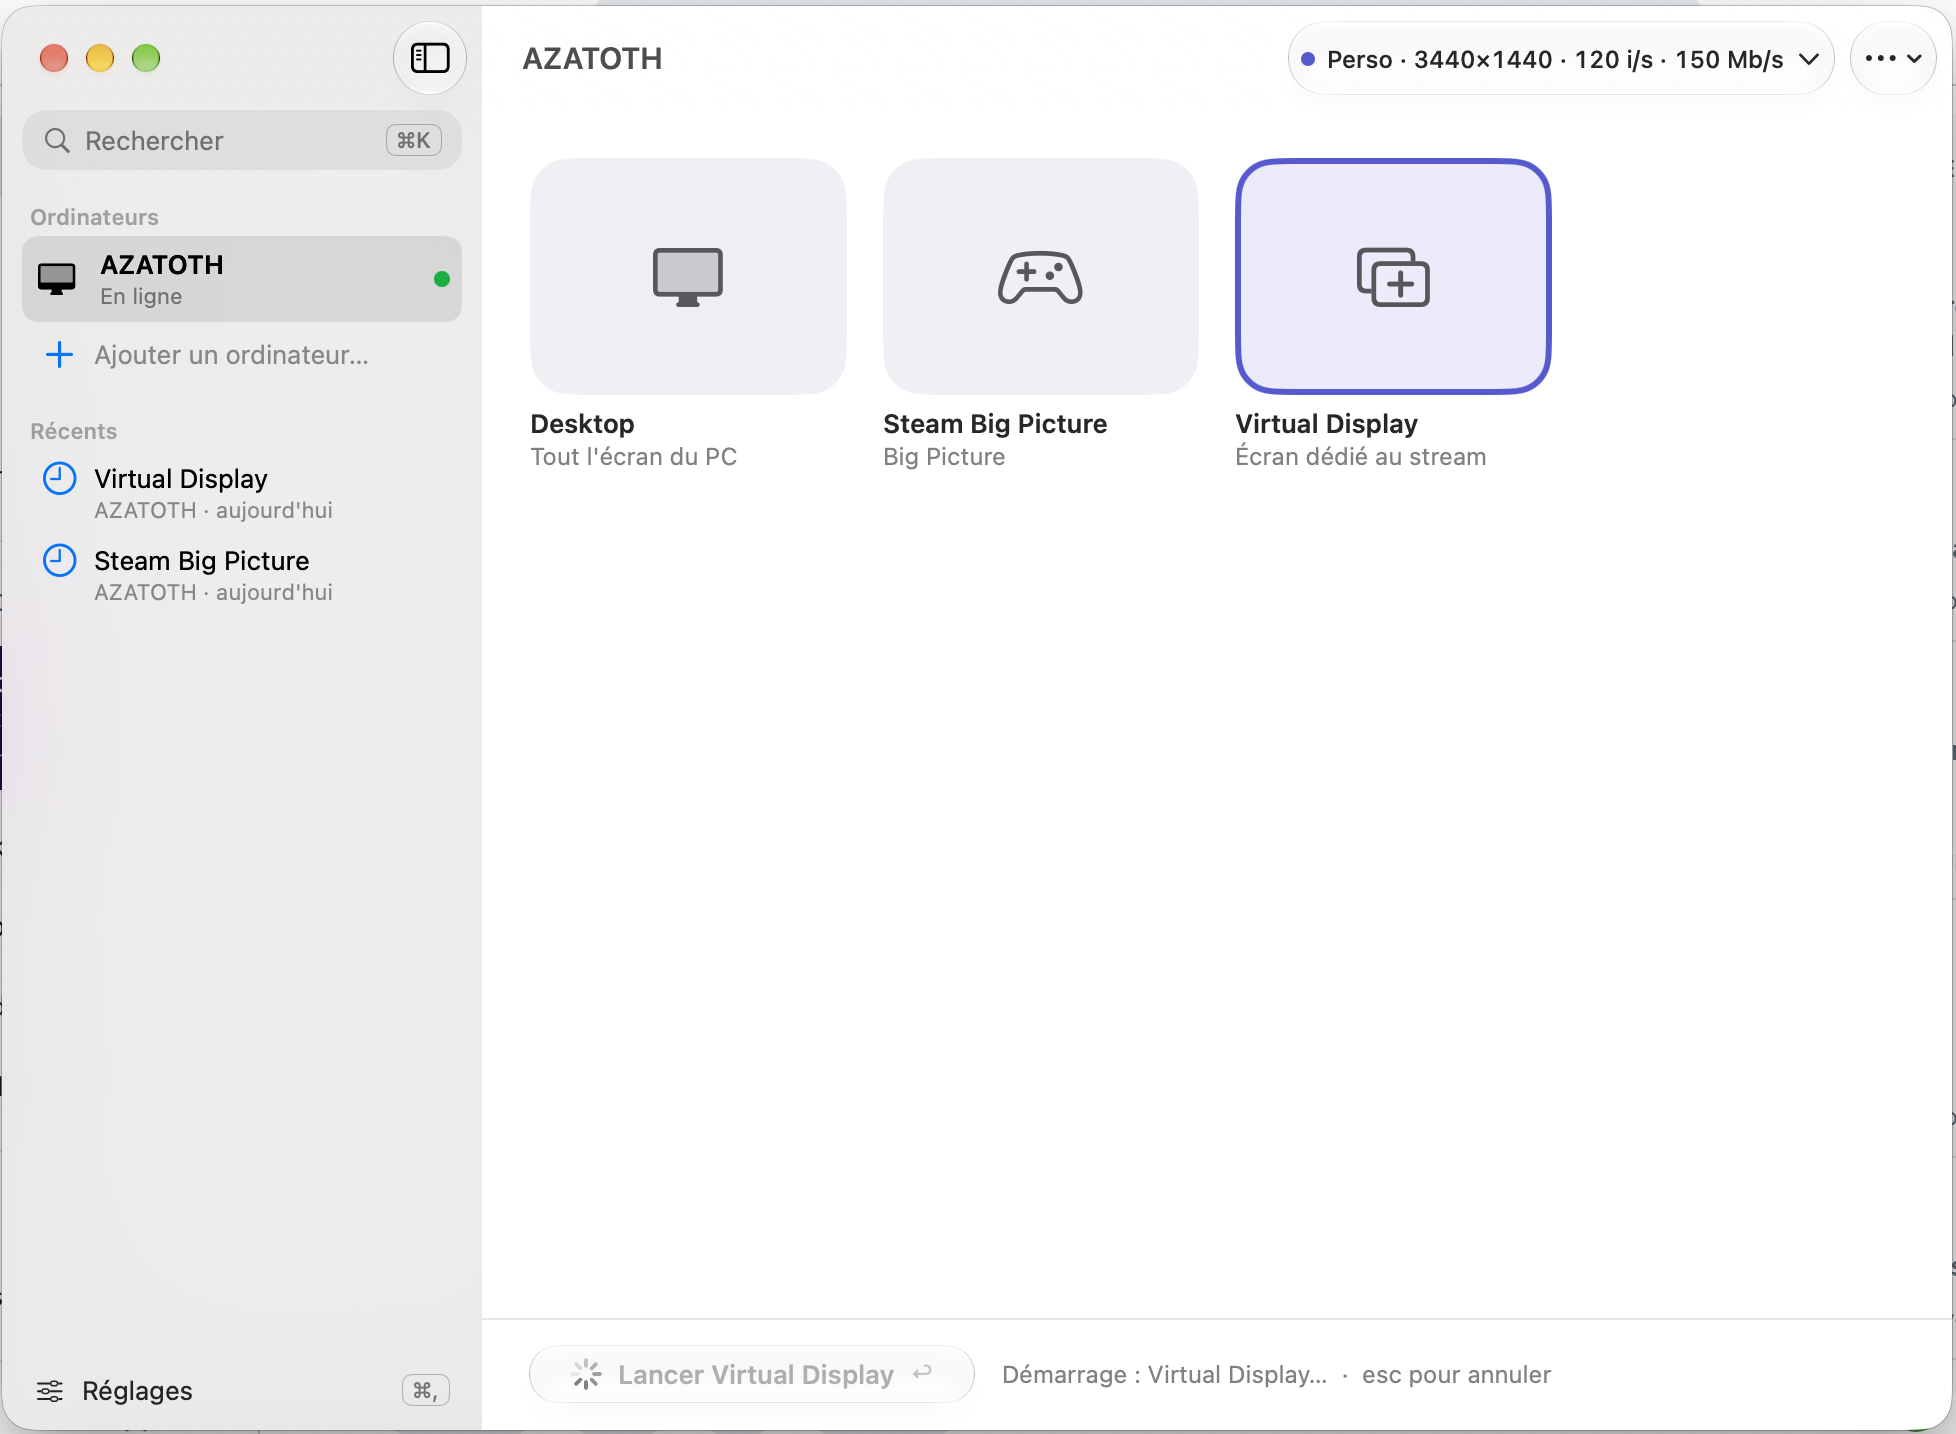
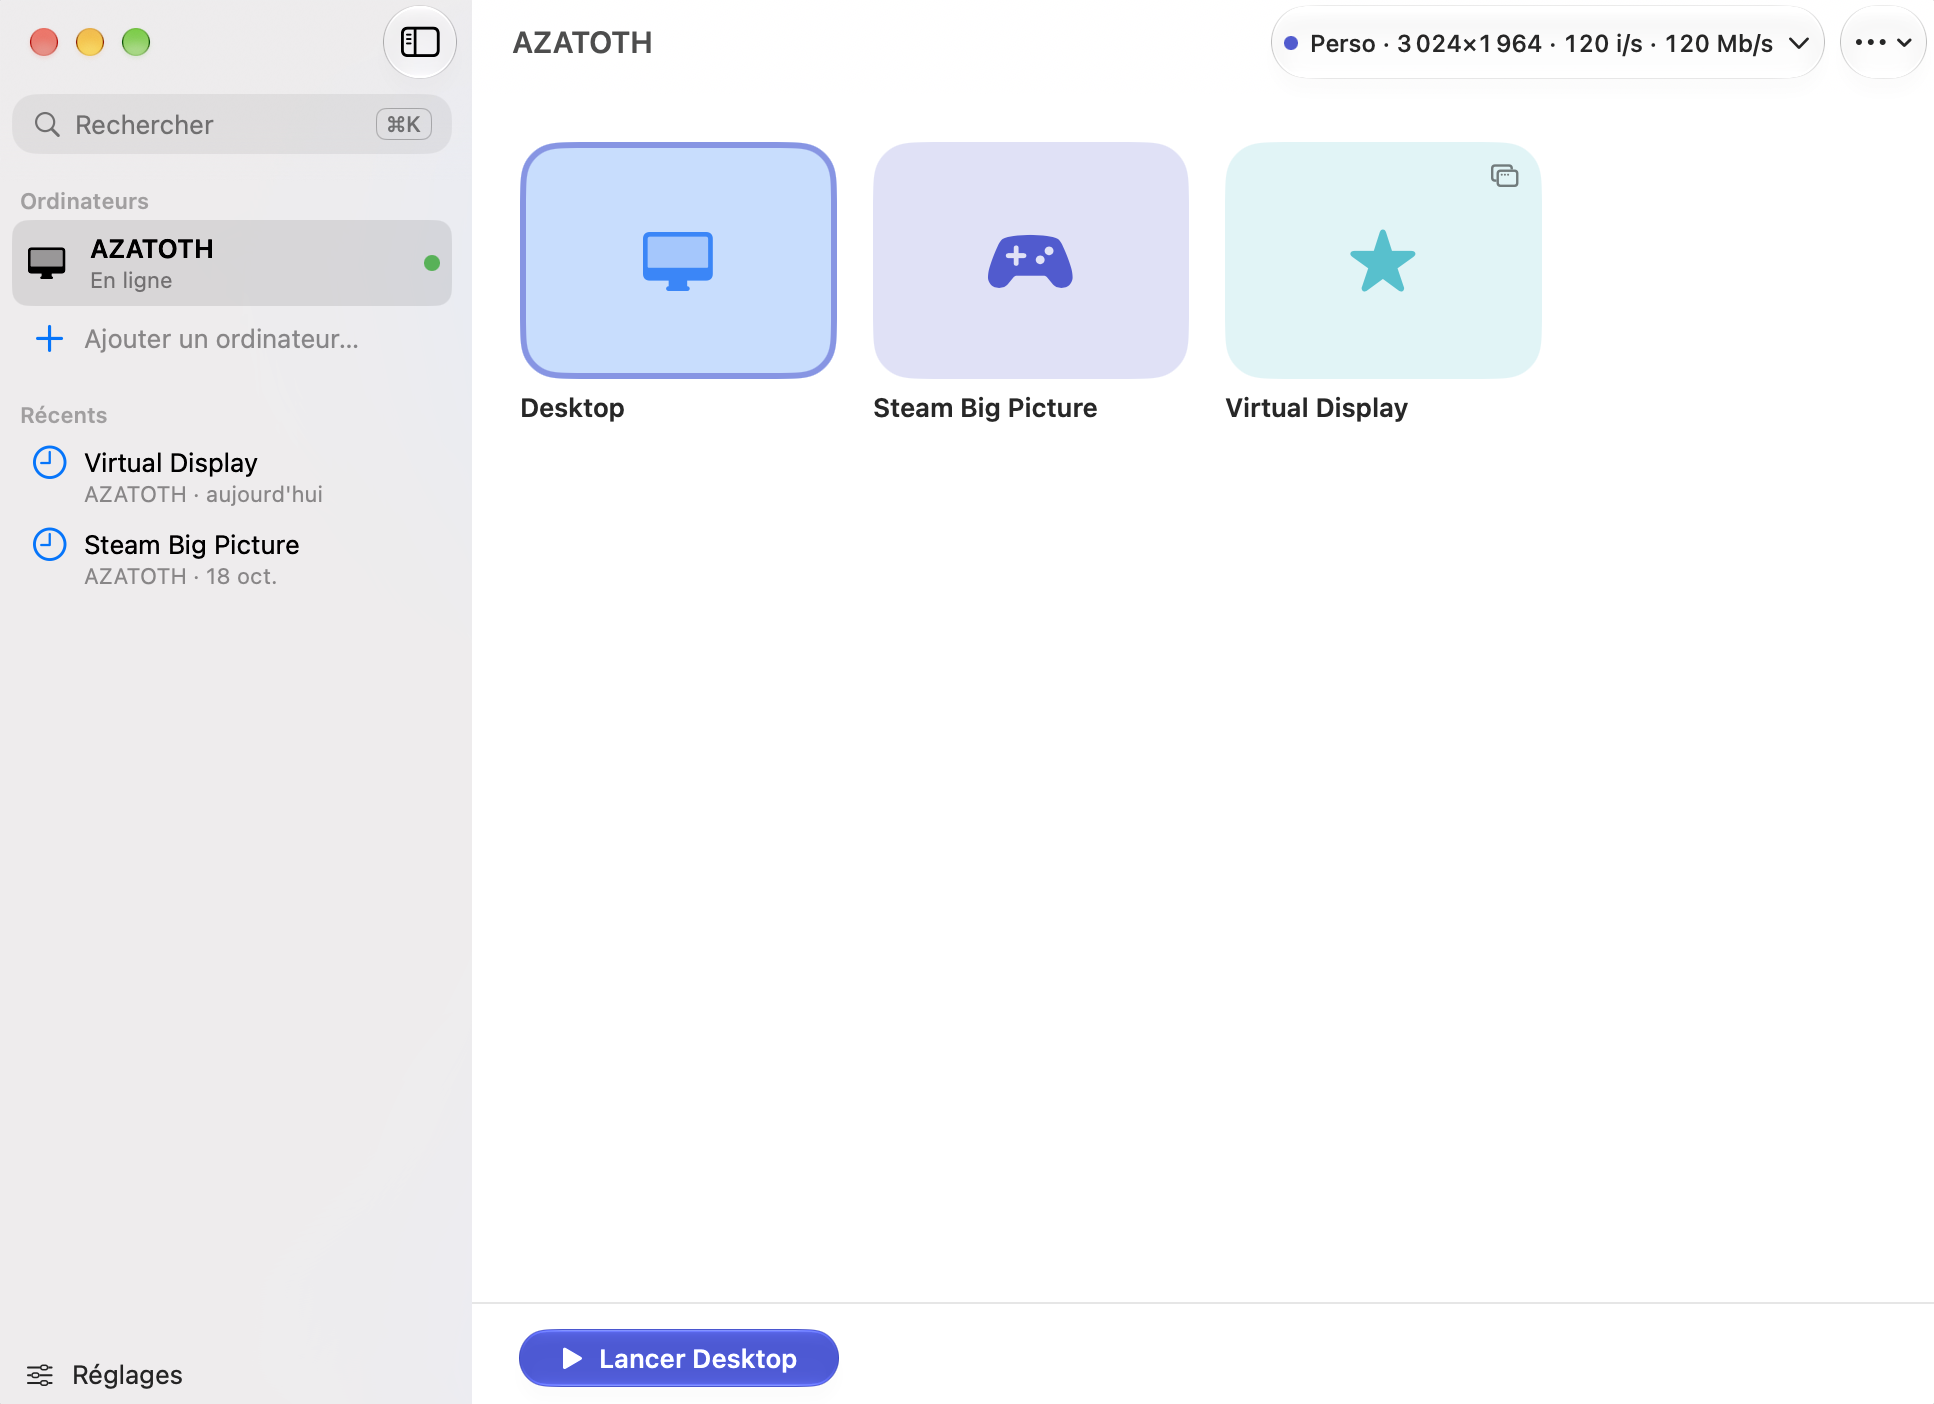
Show the current Home window in the README
The screenshot showed the first SwiftUI Home, with the tile subtitles
and Return glyph that later went away. The new one shows customized
tiles, as of 0.4.1.

diff --git a/README.md b/README.md
@@ -18,7 +18,7 @@ and settings tuned for macOS.
 
 </div>
 
-![Moonvibe's Home window: your PCs, their apps and the quality preset](docs/images/home.png)
+![Moonvibe's Home window: your PCs, their apps with custom tiles, and the quality preset](docs/images/home.png)
 
 ## What Moonvibe adds to Moonlight
 
